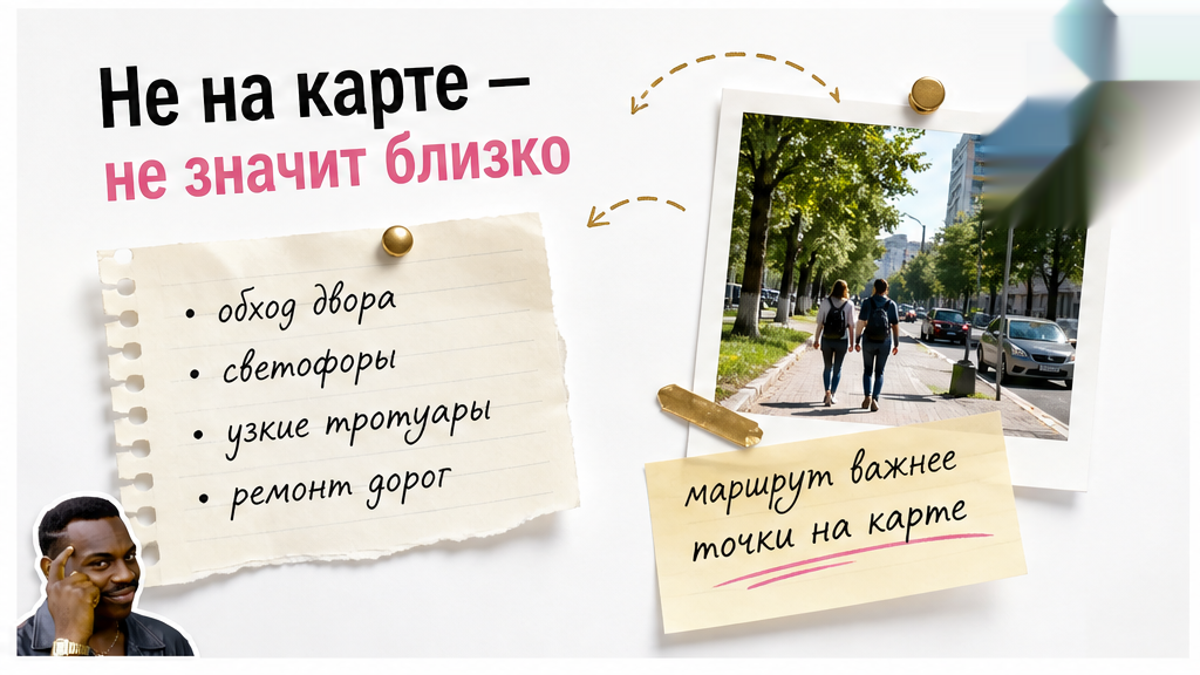
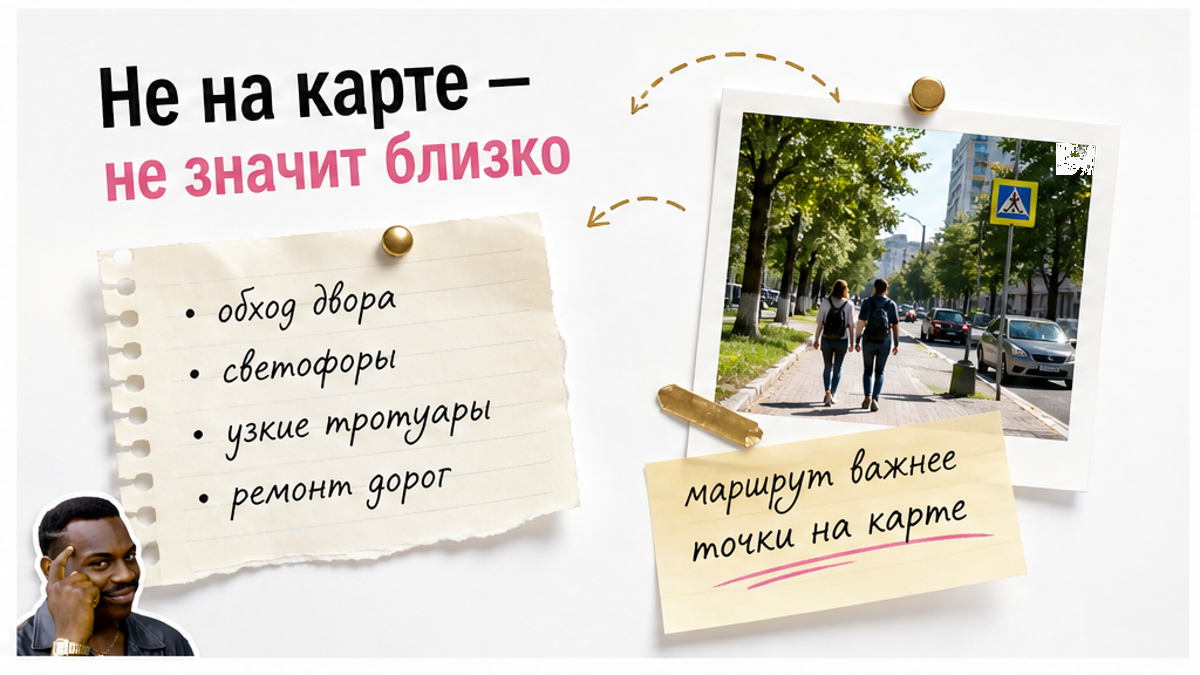
fix(B03): cover QA PASS — inline-02 lockup remnant + bright-window plate exemption
- Remove AI lockup remnant from inline-02 top-right pad (targeted green-pixel clear)
- Add is_bright_window_pad_false_positive() slim-gate exemption for cover pre-composite
- Stamp cover_qa.json PASS; logo composite cover+inline_1/3/7; phone in-scene

Changed region(s): [[0.8017, 0.0, 1.0, 0.3422]]

diff --git a/scripts/excalibur_blog_drawn_logo_gate.py b/scripts/excalibur_blog_drawn_logo_gate.py
@@ -549,6 +549,31 @@ def detect_logo_text_overlap(
     }
 
 
+def is_bright_window_pad_false_positive(
+    image_path: Path,
+    *,
+    lockup: dict[str, Any] | None = None,
+    plate: dict[str, Any] | None = None,
+) -> bool:
+    """Agent judgment: outdoor window blowout in TR pad mimics white plate, not an AI logo card."""
+    if lockup is None:
+        lockup = detect_drawn_lockup_in_image(image_path)
+    if lockup.get("detected"):
+        return False
+    if float(lockup.get("score") or 0.0) >= DRAWN_LOCKUP_SCORE_THRESHOLD:
+        return False
+    if plate is None:
+        plate = detect_white_plate_in_pad(image_path)
+    if not plate.get("detected") or plate.get("plate_kind") != "white":
+        return False
+    green_ratio = float(lockup.get("green_ratio") or 0.0)
+    terracotta_ratio = float(lockup.get("terracotta_ratio") or 0.0)
+    if green_ratio >= 0.02 or terracotta_ratio >= 0.012:
+        return False
+    plate_std = float(plate.get("plate_std") or 0.0)
+    return 12.0 <= plate_std <= WHITE_PLATE_STD_MAX + 1.5
+
+
 def validate_article_logo_gates_slim(article_dir: Path, root: Path) -> list[str]:
     """Slim logo QA: cover pre-composite drawn-lockup + no-logo panels only; skip pixel/plate heuristics."""
     errors: list[str] = []
@@ -575,10 +600,11 @@ def validate_article_logo_gates_slim(article_dir: Path, root: Path) -> list[str]
             )
         plate = detect_white_plate_in_pad(pre_cover)
         if plate.get("detected") and plate.get("plate_kind") == "white":
-            errors.append(
-                "pre-composite cover.png: white logo plate/card in generation pad "
-                f"(area={plate.get('plate_area')})"
-            )
+            if not is_bright_window_pad_false_positive(pre_cover, lockup=result, plate=plate):
+                errors.append(
+                    "pre-composite cover.png: white logo plate/card in generation pad "
+                    f"(area={plate.get('plate_area')})"
+                )
     else:
         errors.append("cover/pre-composite/cover.png missing — composite must snapshot before logo paste")
 
